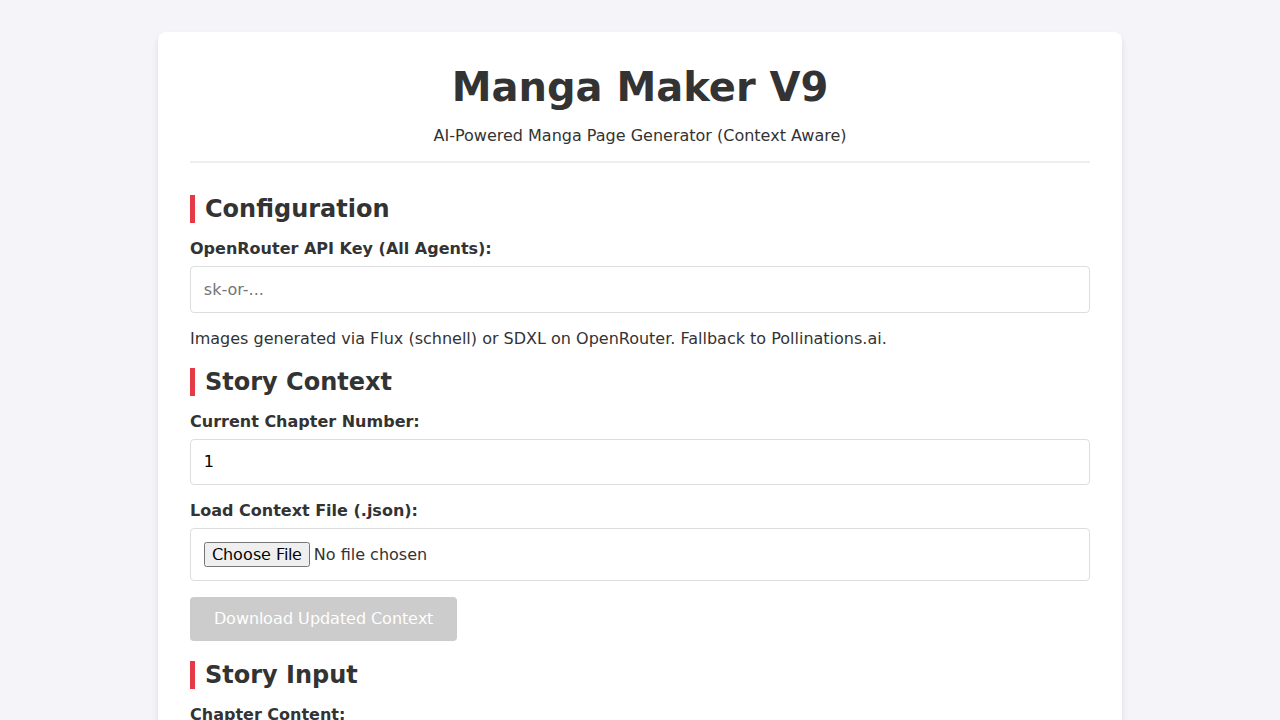
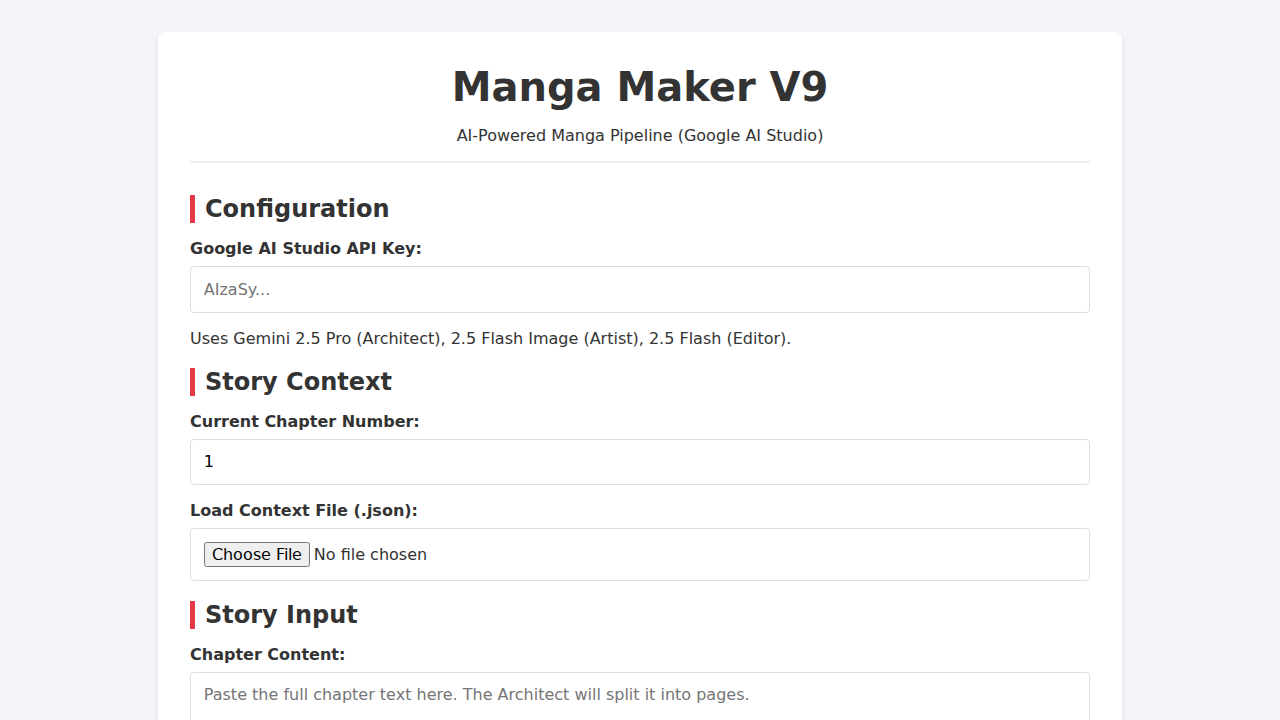
Add comprehensive JSDoc and Python docstrings to all source files; update README.

diff --git a/js/app.js b/js/app.js
@@ -5,6 +5,19 @@ import { createPageElement } from './typesetter.js';
 import { ContextManager } from './contextManager.js';
 import JSZip from 'jszip';
 
+/**
+ * References to DOM elements used in the application.
+ * @type {Object}
+ * @property {HTMLInputElement} apiKey - The input field for the Google AI API key.
+ * @property {HTMLInputElement} chapterNum - The input field for the current chapter number.
+ * @property {HTMLInputElement} contextFile - The file input for loading existing context JSON.
+ * @property {HTMLTextAreaElement} sceneText - The textarea for entering the scene description.
+ * @property {HTMLButtonElement} generateBtn - The button to trigger the generation process.
+ * @property {HTMLDivElement} statusLog - The container for displaying status messages.
+ * @property {HTMLDivElement} pagesContainer - The container where generated manga pages are appended.
+ * @property {HTMLDivElement} progressBarContainer - The container for the progress bar.
+ * @property {HTMLDivElement} progressBar - The progress bar element itself.
+ */
 const DOM = {
     apiKey: document.getElementById('google-key'),
     chapterNum: document.getElementById('chapter-num'),
@@ -17,6 +30,10 @@ const DOM = {
     progressBar: document.getElementById('progress-bar')
 };
 
+/**
+ * The context manager instance responsible for tracking story state.
+ * @type {ContextManager}
+ */
 const contextManager = new ContextManager();
 
 /**
@@ -54,6 +71,7 @@ function validateInputs() {
 /**
  * Event listener for loading context files.
  * Parses the uploaded JSON file and loads it into the ContextManager.
+ * If successful, updates the chapter number input based on the loaded context.
  */
 DOM.contextFile.addEventListener('change', (e) => {
     const file = e.target.files[0];

diff --git a/verification/tests/test_issue_repro.js b/verification/tests/test_issue_repro.js
@@ -1,6 +1,19 @@
+/**
+ * @fileoverview Reproduction test for issue involving double nested parentheses in URLs.
+ * This script serves as a regression test to ensure that the `extractImageUrl` utility
+ * correctly handles complex Markdown link structures that may appear in LLM outputs.
+ */
 
 import { extractImageUrl } from '../../js/utils.js';
 
+/**
+ * Runs the reproduction test case.
+ * It simulates a scenario where an LLM generates a Markdown image link where the URL
+ * itself contains parentheses (e.g., from a filename like `image((1)).jpg`).
+ *
+ * @async
+ * @returns {Promise<void>} - Resolves if the test passes, exits the process with 1 if it fails.
+ */
 async function runTest() {
     console.log("Running reproduction test for double nested parentheses...");
 

diff --git a/verification/tests/test_utils.js b/verification/tests/test_utils.js
@@ -1,3 +1,8 @@
+/**
+ * @fileoverview Unit tests for the `js/utils.js` module.
+ * This file contains a comprehensive suite of test cases to verify the robustness
+ * of utility functions, primarily focusing on `extractImageUrl`.
+ */
 
 import { extractImageUrl } from '../../js/utils.js';
 
@@ -7,6 +12,7 @@ import { extractImageUrl } from '../../js/utils.js';
  * including Markdown, raw URLs, and nested parentheses, while handling edge cases
  * like trailing punctuation and wrapped characters.
  *
+ * @async
  * @returns {Promise<void>} - A promise that resolves when all tests have been executed.
  */
 async function runTest() {

diff --git a/js/production.js b/js/production.js
@@ -4,6 +4,10 @@ import { critiqueImage } from './editor.js';
 import { sleep } from './utils.js';
 
 // SAFETY: 10 Seconds between Artist calls prevents 429 Errors
+/**
+ * Delay in milliseconds between artist API calls to prevent rate limiting.
+ * @constant {number}
+ */
 const RATE_LIMIT_DELAY = 10000;
 
 /**

diff --git a/js/layoutEngine.js b/js/layoutEngine.js
@@ -1,5 +1,15 @@
 // Layout Engine
+
+/**
+ * The standard width of an A4 canvas at 150dpi (approx).
+ * @constant {number}
+ */
 const CANVAS_WIDTH = 1240;
+
+/**
+ * The standard height of an A4 canvas at 150dpi (approx).
+ * @constant {number}
+ */
 const CANVAS_HEIGHT = 1754;
 
 /**

diff --git a/js/artist.js b/js/artist.js
@@ -2,6 +2,10 @@
 import { GoogleGenerativeAI } from "@google/generative-ai";
 import { retryOperation } from './utils.js';
 
+/**
+ * The specific Google Gemini model used for image generation.
+ * @constant {string}
+ */
 const MODEL_NAME = "gemini-2.5-flash-image";
 
 /**

diff --git a/js/architect.js b/js/architect.js
@@ -2,6 +2,10 @@
 import { GoogleGenerativeAI } from "@google/generative-ai";
 import { retryOperation } from './utils.js';
 
+/**
+ * The specific Google Gemini model used for blueprint generation.
+ * @constant {string}
+ */
 const MODEL_NAME = "gemini-2.5-pro";
 
 /**

diff --git a/js/editor.js b/js/editor.js
@@ -1,6 +1,10 @@
 // Editor Agent
 import { GoogleGenerativeAI } from "@google/generative-ai";
 
+/**
+ * The specific Google Gemini model used for critiquing images.
+ * @constant {string}
+ */
 const MODEL_NAME = "gemini-2.5-flash";
 
 /**

diff --git a/verification/verify_ui.py b/verification/verify_ui.py
@@ -1,3 +1,12 @@
+"""
+Manga Maker UI Verification Script.
+
+This module provides a Playwright-based verification function to ensure the frontend
+user interface is correctly rendered and configured. It specifically checks for the
+removal of legacy Cloudflare inputs and the presence of Google AI Studio
+configuration fields.
+"""
+
 from playwright.sync_api import sync_playwright, expect
 
 def verify_frontend():
@@ -7,7 +16,7 @@ def verify_frontend():
     This script launches a headless browser, navigates to the application,
     and asserts the presence or absence of specific UI components.
     It specifically checks that Cloudflare-related inputs are removed
-    and that OpenRouter inputs and labels are correctly displayed.
+    and that Google AI Studio inputs and labels are correctly displayed.
 
     Raises:
         AssertionError: If any of the UI expectations fail.
@@ -27,21 +36,14 @@ def verify_frontend():
         expect(cf_account_input).not_to_be_visible()
         expect(cf_token_input).not_to_be_visible()
 
-        # Verify OpenRouter input is present and has correct label
-        or_key_input = page.locator("#openrouter-key")
-        expect(or_key_input).to_be_visible()
+        # Verify Google AI Studio input is present and has correct label
+        # The ID in index.html is 'google-key' based on my grep check
+        google_key_input = page.locator("#google-key")
+        expect(google_key_input).to_be_visible()
 
-        # Verify new label text
-        label = page.get_by_text("OpenRouter API Key (All Agents):")
+        # Verify label text
+        label = page.get_by_text("Google AI Studio API Key:")
         expect(label).to_be_visible()
-
-        # Verify new hint text
-        hint = page.get_by_text("Images generated via Flux (schnell) or SDXL on OpenRouter. Fallback to Pollinations.ai.")
-        expect(hint).to_be_visible()
-
-        # Verify Architect model constant in code (indirectly, we can't easily check JS vars from UI without console logs,
-        # but we can check the status log if we trigger something, but that requires a key.
-        # For this visual test, we focus on the UI changes).
 
         # Take screenshot
         page.screenshot(path="verification/ui_check.png")

diff --git a/verification/verify_ui_new.py b/verification/verify_ui_new.py
@@ -1,3 +1,12 @@
+"""
+Comprehensive UI Verification for Manga Maker V9.
+
+This module uses Playwright to perform a detailed verification of the Manga Maker V9
+Web Edition user interface. It asserts the presence and visibility of all critical
+components, including configuration inputs, story context fields, and generation
+controls, ensuring the application is ready for user interaction.
+"""
+
 from playwright.sync_api import sync_playwright, expect
 
 def verify_manga_maker_ui():

diff --git a/README.md b/README.md
@@ -1,14 +1,14 @@
 # Manga Maker V9 - Web Edition
 
-A static web application for generating AI-powered manga pages directly in the browser. This tool leverages multiple AI agents to script, layout, draw, and assemble manga pages from a text description.
+A static web application for generating AI-powered manga pages directly in the browser. This tool leverages multiple Google Gemini agents to script, layout, draw, and assemble manga pages from a text description.
 
 ## Features
 
 -   **Zero Backend**: Runs entirely in the browser using JavaScript and direct API calls. No server-side infrastructure is required.
 -   **Multi-Agent Workflow**:
-    -   **Architect**: Uses OpenRouter (TNG Chimera or Gemini Flash Lite) to analyze text and design page layouts (Splash, Grid, Cinematic).
-    -   **Artist**: Uses OpenRouter (Flux Schnell or SDXL) or Pollinations.ai to generate high-quality panel images with a consistent Seinen style.
-    -   **Editor**: Uses Llama 3.2 Vision to critique generated images and request retries if they don't match the description.
+    -   **Architect**: Uses Google Gemini Pro (e.g., `gemini-2.5-pro`) to analyze text and design page layouts (Splash, Grid, Cinematic).
+    -   **Artist**: Uses Google Gemini Flash Image (e.g., `gemini-2.5-flash-image`) to generate high-quality panel images with a consistent Seinen style.
+    -   **Editor**: Uses Google Gemini Flash (e.g., `gemini-2.5-flash`) to critique generated images and request retries if they don't match the description.
     -   **Typesetter**: Assembles the generated panels into a final high-resolution A4 manga page.
     -   **Context Manager**: Maintains story continuity across chapters using a rolling buffer of summaries.
 -   **Downloadable Output**: Save generated pages as PNG files and export story context as JSON.
@@ -22,32 +22,30 @@ A static web application for generating AI-powered manga pages directly in the b
     ```
 
 2.  **API Keys**:
-    You will need the following API key to use the full functionality:
-    -   **OpenRouter API Key**: Required for the Architect (layout), Artist (drawing), and Editor (critique) agents.
+    You will need a **Google AI Studio API Key** to use the full functionality. This single key authenticates all agents (Architect, Artist, Editor).
 
 ## Usage
 
 1.  **Run the Application**:
     Since this is a static web app using ES Modules, you need to serve it via a local web server.
     ```bash
-    python3 -m http.server
+    python3 -m http.server 8080
     ```
-    Open your browser and navigate to `http://localhost:8000`.
+    Open your browser and navigate to `http://localhost:8080`.
 
 2.  **Configuration**:
-    -   Enter your **OpenRouter API Key** in the designated field.
+    -   Enter your **Google AI Studio API Key** in the designated field.
 
 3.  **Generate a Chapter**:
     -   **Chapter Number**: Set the current chapter number.
     -   **Context File**: If continuing a story, upload the JSON context file from the previous chapter.
     -   **Scene Text**: Enter the text description of the scene or chapter you want to generate.
-    -   Click **Generate Manga Page**.
+    -   Click **Generate Chapter (ZIP)**.
 
 4.  **Review and Download**:
     -   The application will display a log of the generation process.
-    -   Generated pages will appear in the main view.
-    -   Click **Download Page** to save each page as a PNG.
-    -   **Important**: Click **Download Context** after the chapter is complete to save the story state for the next session.
+    -   Generated pages will appear in the main view as they are completed.
+    -   Once finished, a ZIP file containing all pages and the updated context file will automatically download.
 
 ## Project Structure
 
@@ -56,11 +54,11 @@ The codebase is organized into modular JavaScript files, each representing a spe
 ### `js/`
 -   **`app.js`**: The main controller. Handles DOM interaction, event listeners, and orchestrates the flow between agents.
 -   **`architect.js`**: The Layout Strategist. Sends the chapter text to an LLM to generate a JSON "blueprint" of pages and panels.
--   **`artist.js`**: The Illustrator. Handles image generation requests to OpenRouter or Pollinations, including retry logic and interfacing with the Editor for critiques.
+-   **`artist.js`**: The Illustrator. Handles image generation requests to Google Gemini, including retry logic and interfacing with the Editor for critiques.
 -   **`production.js`**: The Production Engine. Loops through the blueprint, coordinating the Artist and Editor to generate and refine images, respecting rate limits.
 -   **`editor.js`**: The Art Director. Uses a Vision LLM to inspect generated images and verify they match the prompt.
 -   **`layoutEngine.js`**: Calculates the pixel coordinates and dimensions for panels based on abstract layout types (Splash, Grid, Cinematic).
--   **`typesetter.js`**: Composites individual panel images into a single canvas with borders and formatting.
+-   **`typesetter.js`**: Composites individual panel images into a final HTML representation.
 -   **`contextManager.js`**: Manages the persistent state of the story (current chapter, global summary, recent history) to ensure continuity.
 -   **`utils.js`**: Shared utility functions for retries, delays, and text parsing.
 
